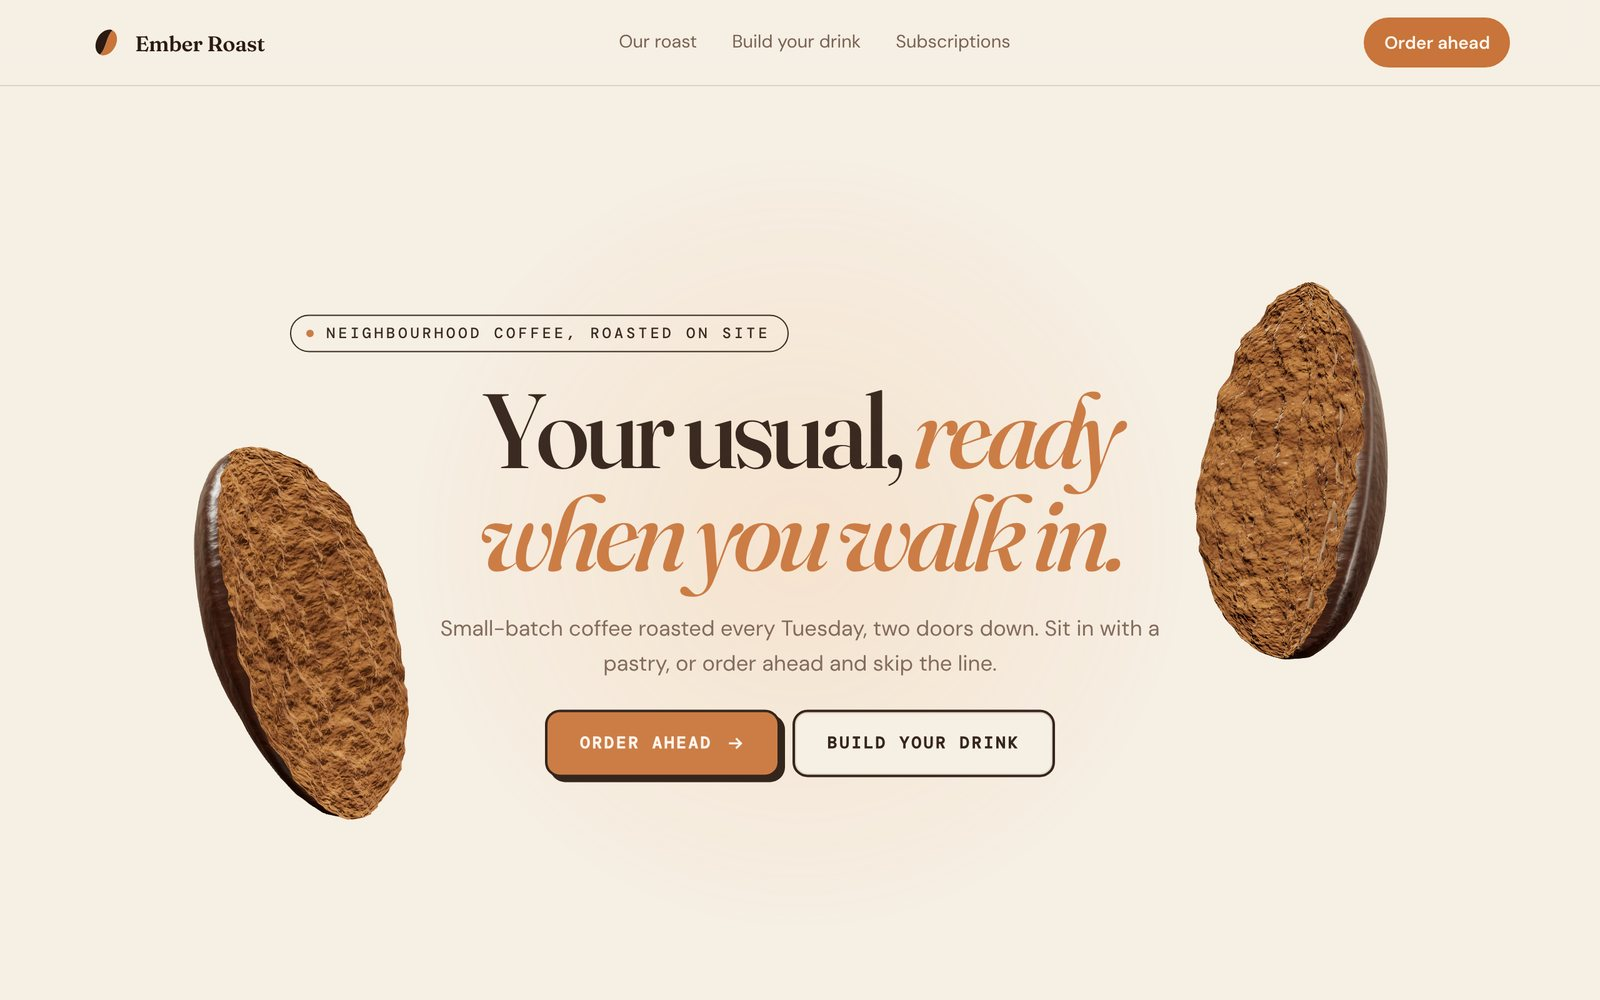
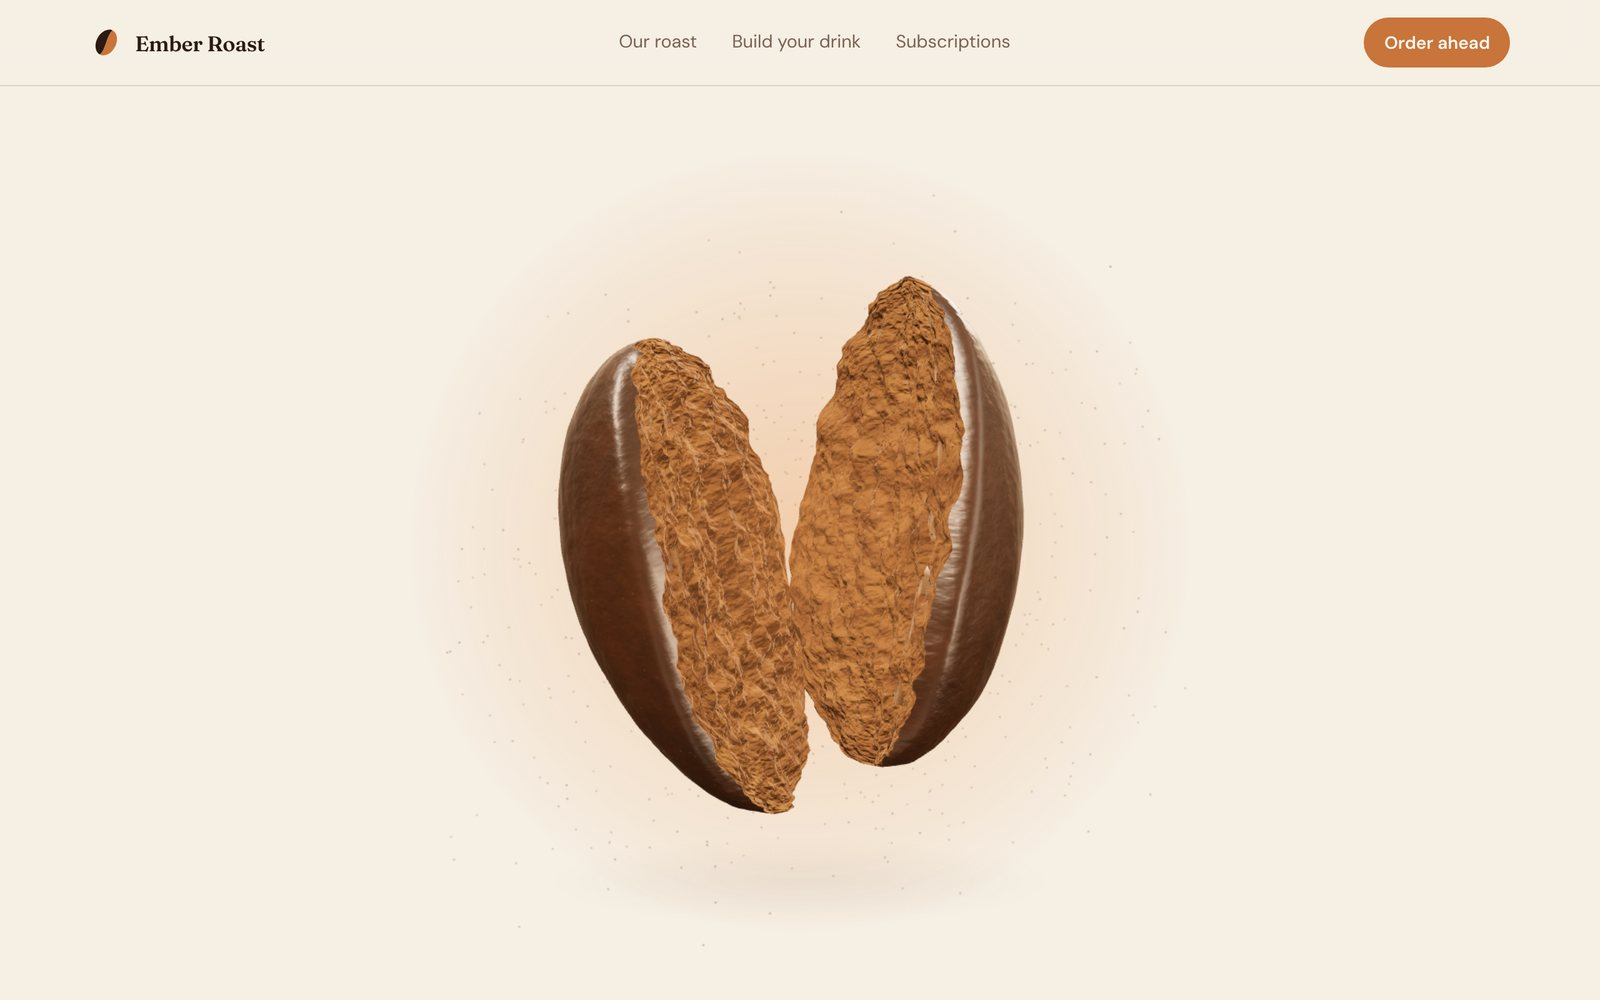
Simpler one-scroll openings: Ember halves pop away, Ironpath kettlebell swing; scroll stops at the end of each opening animation
Claude-Session: https://claude.ai/code/session_01R4Yd9DXFZUHxv4JskfZizu

Changed region(s): [[0.1875, 0.279, 0.7188, 0.837], [0.0938, 0.434, 0.2812, 0.837], [0.75, 0.279, 0.875, 0.682]]

diff --git a/assets/ironpath-kettlebell.js b/assets/ironpath-kettlebell.js
@@ -1,0 +1,57 @@
+// Ironpath sample: a cast-iron kettlebell. One scroll = one swing: a short back-swing, then it swings up and out
+// of the frame, and the headline comes in behind it.
+window.S3D && S3D(({ T, scene, cl, sm, easeOut, rnd, C, canvasTex, soft, fbm }) => {
+  const LIME = '#c7f36b';
+  const key = new T.DirectionalLight('#ffffff', 3.2); key.position.set(-3, 5, 6); scene.add(key);
+  const fill = new T.DirectionalLight('#dfe8ff', .7); fill.position.set(4, -2, 4); scene.add(fill);
+  const rim = new T.DirectionalLight(LIME, 6); rim.position.set(2, 3, -6); scene.add(rim);
+  scene.add(new T.HemisphereLight('#f4fff0', '#0a0b0a', .45));
+
+  // cast-iron surface: fine pitting in the bump map, painted weight on the front
+  const pits = canvasTex(512, 512, (g, w, h) => { const d = g.createImageData(w, h);
+    for (let y = 0; y < h; y++) for (let x = 0; x < w; x++) { const v = 128 + fbm(x / 6, y / 6, 1.7) * 90 + (rnd() - .5) * 40, i = (y * w + x) * 4; d.data[i] = d.data[i + 1] = d.data[i + 2] = v; d.data[i + 3] = 255; }
+    g.putImageData(d, 0, 0); });
+  pits.wrapS = pits.wrapT = T.RepeatWrapping; pits.repeat.set(4, 2);
+  const paint = canvasTex(2048, 1024, (g, w, h) => {
+    g.fillStyle = '#121413'; g.fillRect(0, 0, w, h);
+    // the sphere's front faces the camera at u = .25; letters are stretched sideways to look right on the curve
+    g.save(); g.translate(w * .25, h * .5); g.scale(.62, 1); g.textAlign = 'center'; g.textBaseline = 'middle';
+    g.fillStyle = LIME; g.font = '800 260px Archivo, Arial, sans-serif'; g.fillText('24', 0, -20);
+    g.fillStyle = '#d6dcd6'; g.font = '700 84px Archivo, Arial, sans-serif'; g.fillText('KG', 0, 130); g.restore();
+    g.fillStyle = 'rgba(199,243,107,.9)'; g.fillRect(0, h * .74, w, 10); });
+  paint.anisotropy = 8; paint.encoding = T.sRGBEncoding;
+  const iron = new T.MeshPhysicalMaterial({ map: paint, color: C('#ffffff'), metalness: .25, roughness: .55, bumpMap: pits, bumpScale: .012, clearcoat: .3, clearcoatRoughness: .5, envMapIntensity: .55 });
+  const handleMat = new T.MeshPhysicalMaterial({ color: C('#1a1c1b'), metalness: .45, roughness: .4, bumpMap: pits, bumpScale: .006, envMapIntensity: .7 });
+
+  // ---------- the kettlebell ----------
+  const bell = new T.Group(), pivot = new T.Group(); pivot.add(bell); scene.add(pivot);
+  const bodyG = new T.SphereGeometry(1, 128, 96);
+  { const P = bodyG.attributes.position;               // flat base, slightly squat body
+    for (let i = 0; i < P.count; i++) { let y = P.getY(i) * .94; if (y < -.78) { const k = -.78 / y; P.setX(i, P.getX(i) * (1 + (1 - k) * .4)); P.setZ(i, P.getZ(i) * (1 + (1 - k) * .4)); y = -.78; } P.setY(i, y); }
+    bodyG.computeVertexNormals(); }
+  const body = new T.Mesh(bodyG, iron); bell.add(body);
+  const handle = new T.Mesh(new T.TorusGeometry(.62, .12, 32, 96, Math.PI * 1.22), handleMat);
+  handle.rotation.z = -Math.PI * .11; handle.position.y = .72; bell.add(handle);
+  [-1, 1].forEach(s => { const horn = new T.Mesh(new T.CylinderGeometry(.13, .19, .4, 32), handleMat); horn.position.set(s * .6, .66, 0); horn.rotation.z = s * .18; bell.add(horn); });
+  const L = 3.6; bell.position.y = -L;                  // hangs from a pivot well above it, like from the hips of the lifter
+
+  const shadow = new T.Sprite(new T.SpriteMaterial({ map: soft('rgba(0,0,0,.75)', 'rgba(0,0,0,0)'), depthWrite: false, transparent: true }));
+  shadow.scale.set(2.6, .45, 1); shadow.position.set(0, -1.45, -.6); scene.add(shadow);
+  const glow = new T.Sprite(new T.SpriteMaterial({ map: soft('rgba(199,243,107,.5)', 'rgba(199,243,107,0)'), blending: T.AdditiveBlending, depthWrite: false, transparent: true }));
+  glow.scale.set(5, 5, 1); glow.position.set(0, -.2, -2); scene.add(glow);
+
+  return ({ i, p, mx, my, halfW }) => {
+    const e = easeOut(i), size = Math.min(.82, halfW * .5);
+    // one swing: back-swing 0-22%, then up and out of the frame 22-62% (fastest through the bottom, like a real swing)
+    const back = sm(p / .22), up = sm((p - .22) / .42);
+    const ang = .3 * back - (.3 + 1.75) * up;                     // radians around the pivot (negative = swings up to the left)
+    pivot.position.set(0, -.2 + L * size, up * 1.2);              // the bell starts centred; it comes towards you as it swings
+    pivot.rotation.set(0, 0, ang);
+    pivot.scale.setScalar(size * (.85 + .15 * e));
+    bell.rotation.set(.15 + my * .2, .5 + mx * .5 + up * 1.2, 0);  // turns as it swings so you see it in 3D
+    const away = cl(-ang / 1.2);                              // fade the shadow and glow as it leaves
+    shadow.material.opacity = .9 * e * (1 - away) * (1 - Math.abs(Math.sin(ang)) * .7);
+    shadow.scale.set(2.6 * size / .82, .45 * size / .82, 1);
+    glow.material.opacity = .35 * e * (1 - sm(up * 1.4));
+  };
+}, { z: 9, exposure: 1.1, env: { low: '#060706', high: '#d9e2dc' } });

diff --git a/assets/ember-bean.js b/assets/ember-bean.js
@@ -143,45 +143,35 @@
   const draw = () => {
     let i = v('--i'), p = v('--p'); const mx = v('--mx'), my = v('--my');
     if (reduce) { i = 1; p = .2; }
-    // our own timeline (the stage is taller on this page): the crack moves at the same pace as the turn before it
-    // turn 0-22%, crack 22-70% (same pace as the turn), halves move aside 64-88%, headline 72-90%
-    const a = sm(p / .22), b = cl((p - .22) / .48), c = sm((p - .8) / .12);
+    // simple and readable in one scroll: turn 0-25%, crack 20-60%, the halves pop and vanish 55-72%, headline 66-82%
+    const a = sm(p / .25), b = cl((p - .2) / .4), pop = cl((p - .55) / .17), c = sm((p - .66) / .16);
     stage.style.setProperty('--ea', a.toFixed(4)); stage.style.setProperty('--ec', c.toFixed(4));
-    const out = sm((p - .56) / .28);                  // halves clear the way for the headline as it rises
     const sig = [i, a, b, c, p, mx, my, W, H].map(x => x.toFixed(4)).join();
     if (sig === last) return; last = sig;
 
-    // fit: keep the whole bean comfortably inside the frame on any screen shape
     const asp = W / H, fitZ = Math.max(7.2, 2.15 / (Math.tan(14 * Math.PI / 180) * Math.min(1, asp)));
-    camera.position.set(0, 0, fitZ * (1.06 - .1 * a + .1 * out)); camera.lookAt(0, 0, 0);
-    const halfW = Math.tan(14 * Math.PI / 180) * camera.position.z * asp;
+    camera.position.set(0, 0, fitZ * (1.06 - .1 * a)); camera.lookAt(0, 0, 0);
 
-    // the bean arrives, turns to show its crease, trembles, then cracks open
+    // the bean arrives, turns to show its crease, then cracks open
     bean.scale.setScalar(.72 + .28 * easeOut(i));
     bean.position.y = (1 - easeOut(i)) * -.35;
     bean.rotation.set(.32 - .18 * a + my * .25, -.75 + 1.0 * a + mx * .45 - .2 * b, .5 - .38 * a);
-    const o = sm((b - .14) / .7);                          // the halves open steadily, not in a snap
-    const halfH = Math.tan(14 * Math.PI / 180) * camera.position.z;
-    // keep the halves clear of the headline block: beside it when there is room, else in opposite corners
-    const tw = (copyBox.w / W) * halfW, th = (copyBox.h / H) * halfH, halfSize = .5;    // half-sizes in scene units
-    const sideX = tw + halfSize + .25, tall = sideX > halfW * .95;
-    const tx = tall ? Math.min(halfW * .72, Math.max(halfW * .55, halfW - halfSize * .6)) : Math.min(halfW * .85, Math.max(sideX, halfW * .62));
-    const ty = tall ? Math.min(halfH * .8, th + halfSize * .9) : 0;
-    const spread = o * .5 + out * (tx - .5);
-    L.position.set(-spread, -o * .12 + out * ty, o * .15); R.position.set(spread, o * .08 - out * ty, o * .15);
-    L.rotation.set(o * .1, -o * .78, o * .3); R.rotation.set(-o * .08, o * .72, -o * .26);   // show the glossy shell and the broken inside together
-    const shrink = 1 - (tall ? .42 : .14) * out; L.scale.setScalar(shrink); R.scale.setScalar(shrink);
+    const o = sm((b - .1) / .8);
+    const spread = o * .5 + easeOut(pop) * .3;
+    L.position.set(-spread, -o * .12, o * .15); R.position.set(spread, o * .08, o * .15);
+    L.rotation.set(o * .1, -o * .78, o * .3); R.rotation.set(-o * .08, o * .72, -o * .26);
+    // pop: a little swell, then they shrink away to nothing
+    const sc = pop < .3 ? 1 + .1 * sm(pop / .3) : 1.1 * (1 - sm((pop - .3) / .7));
+    L.scale.setScalar(sc); R.scale.setScalar(sc); L.visible = R.visible = sc > .005;
 
-    // shards and dust fly out and fall, then fade
-    const s = cl((b - .12) / .88), fade = 1 - sm((s - .6) / .4);
-    shards.forEach(m => { const u = m.userData; m.visible = s > 0 && fade > .01;
-      m.position.set(u.o.x + u.v.x * s * 1.3, u.o.y + u.v.y * s * 1.2 - 2.4 * s * s, u.o.z + u.v.z * s);
-      m.rotation.set(u.s.x * s, u.s.y * s, u.s.z * s); m.scale.setScalar(fade); });
+    // no flying shards: just a soft puff of roast dust as it cracks
+    shards.forEach(m => { m.visible = false; });
+    const s = cl((b - .12) / .88), fade = 1 - sm((s - .5) / .5);
     for (let k = 0; k < DUST; k++) { dpos[k * 3] = dO[k * 3] + dV[k * 3] * s * 1.2; dpos[k * 3 + 1] = dO[k * 3 + 1] + dV[k * 3 + 1] * s - 1.8 * s * s; dpos[k * 3 + 2] = dO[k * 3 + 2] + dV[k * 3 + 2] * s; }
-    dg.attributes.position.needsUpdate = true; dust.material.opacity = s > 0 ? .9 * fade : 0;
+    dg.attributes.position.needsUpdate = true; dust.material.opacity = s > 0 ? .6 * fade : 0;
 
     // the ember: a warm flash from inside the crack
-    const gl = Math.sin(Math.PI * cl((b - .06) / .6)) * (1 - out);
+    const gl = Math.sin(Math.PI * cl((b - .06) / .6)) * (1 - pop);
     ember.intensity = gl * 9; ember.position.set(0, 0, .25);
     glow.material.opacity = gl * .55; glow.position.copy(bean.position).setZ(.2);
     shadow.material.opacity = .8 * (1 - o) * easeOut(i);

diff --git a/src/pages/index.html b/src/pages/index.html
@@ -262,7 +262,7 @@ jsonld: [{"@context":"https://schema.org","@type":"Product","name":"Custom websi
       <img src="/assets/shots/deduction.jpg" alt="" width="800" height="500" loading="lazy" style="--o:1.5;--a:1.5">
     </div>
     <div class="samples">
-      <a class="sample reveal" href="/samples/ironpath" style="--s1:#c7f36b;--s2:#0b0d0c"><img class="s-shot" src="/assets/shots/ironpath.jpg" alt="" width="800" height="500" loading="lazy"><span class="s-ind">Fitness &amp; Wellness · One page · Starter $284</span><b>Ironpath</b><span>A real 3D barbell that loads its plates as you scroll, and a live plan builder.</span><em>Open sample →</em></a>
+      <a class="sample reveal" href="/samples/ironpath" style="--s1:#c7f36b;--s2:#0b0d0c"><img class="s-shot" src="/assets/shots/ironpath.jpg" alt="" width="800" height="500" loading="lazy"><span class="s-ind">Fitness &amp; Wellness · One page · Starter $284</span><b>Ironpath</b><span>A real 3D kettlebell that swings as you scroll, and a live plan builder.</span><em>Open sample →</em></a>
       <a class="sample reveal" href="/samples/synthra" style="--s1:#5ef0ff;--s2:#05070f"><img class="s-shot" src="/assets/shots/synthra.jpg" alt="" width="800" height="500" loading="lazy"><span class="s-ind">Technology &amp; IT · One page · Starter $284</span><b>Synthra</b><span>An orbiting core that flies past you as you scroll, and a live AI agent you can give tasks to.</span><em>Open sample →</em></a>
       <a class="sample reveal" href="/samples/ember-roast" style="--s1:#c8743a;--s2:#2b1a12"><img class="s-shot" src="/assets/shots/ember-roast.jpg" alt="" width="800" height="500" loading="lazy"><span class="s-ind">Local Services · One page · Starter $284</span><b>Ember Roast</b><span>A real 3D coffee bean that cracks open as you scroll, and a drink builder.</span><em>Open sample →</em></a>
       <a class="sample reveal" href="/samples/deduction" style="--s1:#ffcc4d;--s2:#0d0f1a"><img class="s-shot" src="/assets/shots/deduction.jpg" alt="" width="800" height="500" loading="lazy"><span class="s-ind">Creators &amp; Education · One page · Starter $284</span><b>Deduction</b><span>Code brackets that open to reveal the headline, and a real live-coding playground.</span><em>Open sample →</em></a>

diff --git a/src/samples/ironpath.html b/src/samples/ironpath.html
@@ -22,7 +22,7 @@
   background-image:linear-gradient(rgba(199,243,107,.35) 1px,transparent 1px),linear-gradient(90deg,rgba(199,243,107,.18) 1px,transparent 1px);background-size:60px 60px;background-position:0 calc(var(--p) * 900px);
   -webkit-mask-image:linear-gradient(transparent,#000 60%);mask-image:linear-gradient(transparent,#000 60%);opacity:calc(var(--a) * (1 - var(--b) * .6))}
 
-/* the real 3D barbell (ironpath-bar.js) replaces the flat path when WebGL is available; one scroll to play */
+/* the real 3D kettlebell (ironpath-kettlebell.js) replaces the flat path when WebGL is available; one scroll to play */
 .x-3d{position:absolute;inset:0;width:100%;height:100%;display:block}
 .mark.has-3d .ip-mark{display:none}
 .stage.x3d{height:280vh}
@@ -57,7 +57,7 @@
 <nav class="drawer" aria-label="Mobile"><a href="#about">Method</a><a href="#builder">Build your week</a><a href="#pricing">Pricing</a><a class="btn sm" href="#pricing">Start free</a></nav>
 
 <main>
-<section class="stage" aria-label="Ironpath" data-hold=".93">
+<section class="stage" aria-label="Ironpath" data-hold=".86">
   <div class="pin">
     <div class="mark" aria-hidden="true">
       <div class="ip-floor"></div>
@@ -132,7 +132,7 @@
 <script src="{{ASSETS}}smooth.js" defer></script>
 <script src="{{THREE}}" defer></script>
 <script src="{{ASSETS}}sample3d.js" defer></script>
-<script src="{{ASSETS}}ironpath-bar.js" defer></script>
+<script src="{{ASSETS}}ironpath-kettlebell.js" defer></script>
 
 <script>
 // Ironpath sample: live plan builder (pure sample logic; nothing is saved or sent)

diff --git a/assets/smooth.js b/assets/smooth.js
@@ -7,7 +7,7 @@
   const EASE = .075;   // how quickly the page catches up each frame (lower = smoother, longer glide)
   const SPEED = .85;   // distance per wheel step compared with the browser's normal amount (lower = slower)
   const root = document.documentElement;
-  let target = scrollY, cur = scrollY, raf = 0, last = 0;
+  let target = scrollY, cur = scrollY, raf = 0, last = 0, held = false, lastWheel = 0;
 
   const max = () => root.scrollHeight - innerHeight;
   const go = y => scrollTo({ top: y, behavior: 'instant' });
@@ -37,8 +37,16 @@
     let dy = e.deltaY * (e.deltaMode === 1 ? 16 : e.deltaMode === 2 ? innerHeight : 1);
     if (!dy || ownScroller(e, dy) || getComputedStyle(document.body).overflow === 'hidden') return;
     e.preventDefault();
+    // after stopping at the end of an opening animation, the rest of that flick (trackpad momentum) is ignored
+    const now = performance.now(), gap = now - lastWheel; lastWheel = now;
+    if (held) { if (gap < 220) return; held = false; }
     if (!raf) { cur = target = scrollY; }
+    const from = target;
     target = Math.max(0, Math.min(max(), target + dy * SPEED));
+    // stop points: one scroll plays an opening animation and stops when it is done, instead of flying past it
+    if (dy > 0) for (const el of document.querySelectorAll('[data-stop-y]')) {
+      const s = +el.dataset.stopY; if (from < s - 2 && target > s) { target = s; held = true; }
+    }
     if (!raf) raf = requestAnimationFrame(frame);
   }, { passive: false });
 

diff --git a/assets/mono.js b/assets/mono.js
@@ -125,6 +125,8 @@
     pin.style.transform = h > 0 ? `translate3d(0,${(-(h * h) / (2 * H)).toFixed(1)}px,0)` : '';
     // easing in only covers half the ramp, so pull the next section up by that half: it arrives right behind the headline (no gap)
     const mb = Math.round(-H / 2); if (mb !== lastMb) { lastMb = mb; stage.style.marginBottom = mb + 'px'; }
+    // one scroll gesture stops here, when the logo animation has finished (smooth.js)
+    stage.dataset.stopY = Math.round(scrollY + r.top - t + yHold);
     kick();
   };
   addEventListener('scroll', readScroll, { passive: true });
@@ -132,7 +134,7 @@
 
   const kick = () => { if (!running) { running = true; requestAnimationFrame(frame); } };
   function frame() {
-    prog += (target - prog) * .14; px += (tpx - px) * .08; py += (tpy - py) * .08;
+    prog += (target - prog) * .32; px += (tpx - px) * .08; py += (tpy - py) * .08;
     const p = prog * .87;            // the stage is 13% shorter than the timeline: same animation, half the hold after it
     const a = smooth(p / .42);                    // turn: shows the depth
     const b = smooth((p - .36) / .38);            // split: K and Z slide apart

diff --git a/assets/sample3d.js b/assets/sample3d.js
@@ -60,8 +60,8 @@ window.S3D = (build, opt = {}) => {
   const frame = () => {
     let i = v('--i'), p = v('--p'); const mx = v('--mx'), my = v('--my');
     if (reduce) { i = 1; p = 1; }
-    // shared timeline: turn 0-22%, main action 22-70%, objects move aside 56-84%, headline 80-92%
-    const a = sm(p / .22), b = cl((p - .22) / .48), out = sm((p - .56) / .28), c = sm((p - .8) / .12);
+    // shared timeline: wind-up 0-22%, main action 22-62%, headline 60-78%
+    const a = sm(p / .22), b = cl((p - .22) / .48), out = sm((p - .56) / .28), c = sm((p - .6) / .18);
     stage.style.setProperty('--ea', a.toFixed(4)); stage.style.setProperty('--ec', c.toFixed(4));
     const sig = [i, p, mx, my, W, H].map(x => x.toFixed(4)).join();
     if (sig === last) return; last = sig;

diff --git a/assets/sample2.js b/assets/sample2.js
@@ -53,6 +53,8 @@
     pin.style.transform = h > 0 ? `translate3d(0,${(-(h * h) / (2 * H)).toFixed(1)}px,0)` : '';
     // easing in only covers half the ramp: pull the next section up by that half so it arrives right behind (no empty gap)
     const mb = Math.round(-H / 2); if (mb !== lastMb) { lastMb = mb; stage.style.marginBottom = mb + 'px'; }
+    // one scroll gesture stops here, when the animation has finished (smooth.js)
+    stage.dataset.stopY = Math.round(scrollY + r.top - nh + HOLD * range);
     kick();
   };
   addEventListener('scroll', read, { passive: true });

diff --git a/src/samples/ember-roast.html b/src/samples/ember-roast.html
@@ -155,7 +155,7 @@ main .btn.sm{height:46px;padding:0 18px;font-size:12px}
 <nav class="drawer" aria-label="Mobile"><a href="#about">Our roast</a><a href="#build">Build your drink</a><a href="#pricing">Subscriptions</a><a class="btn sm" href="#pricing">Order ahead</a></nav>
 
 <main>
-<section class="stage" aria-label="Ember Roast" data-hold=".93">
+<section class="stage" aria-label="Ember Roast" data-hold=".86">
   <div class="pin">
     <div class="mark" aria-hidden="true">
       <div class="er-glow"></div>
